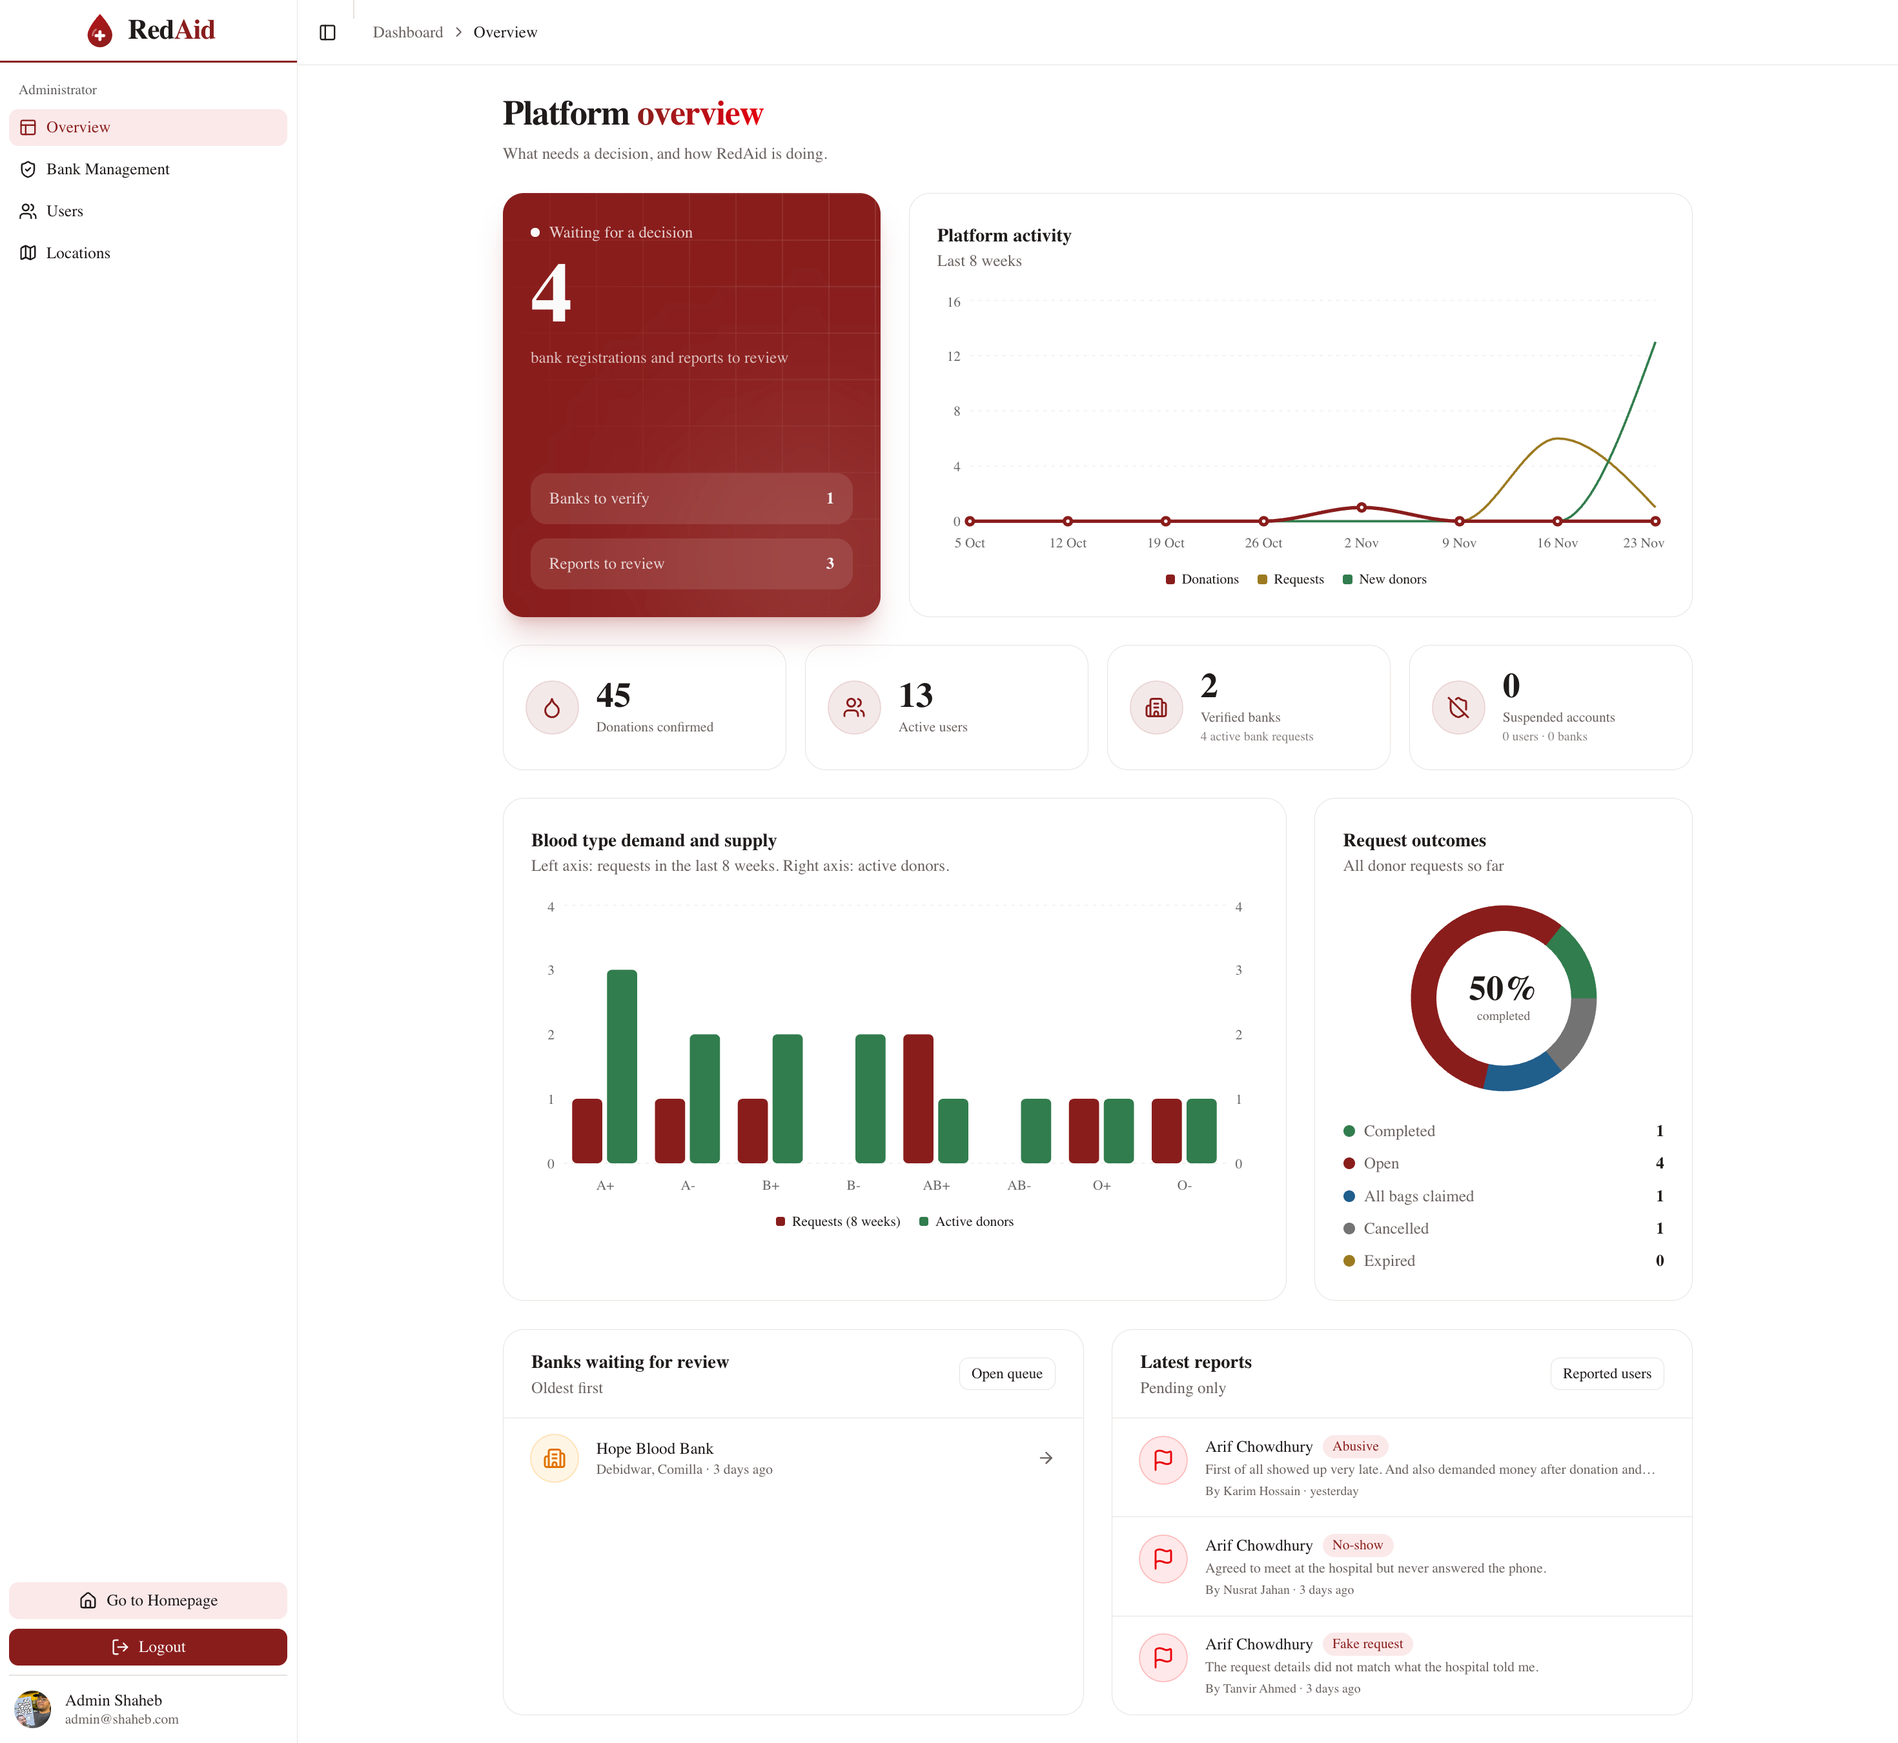
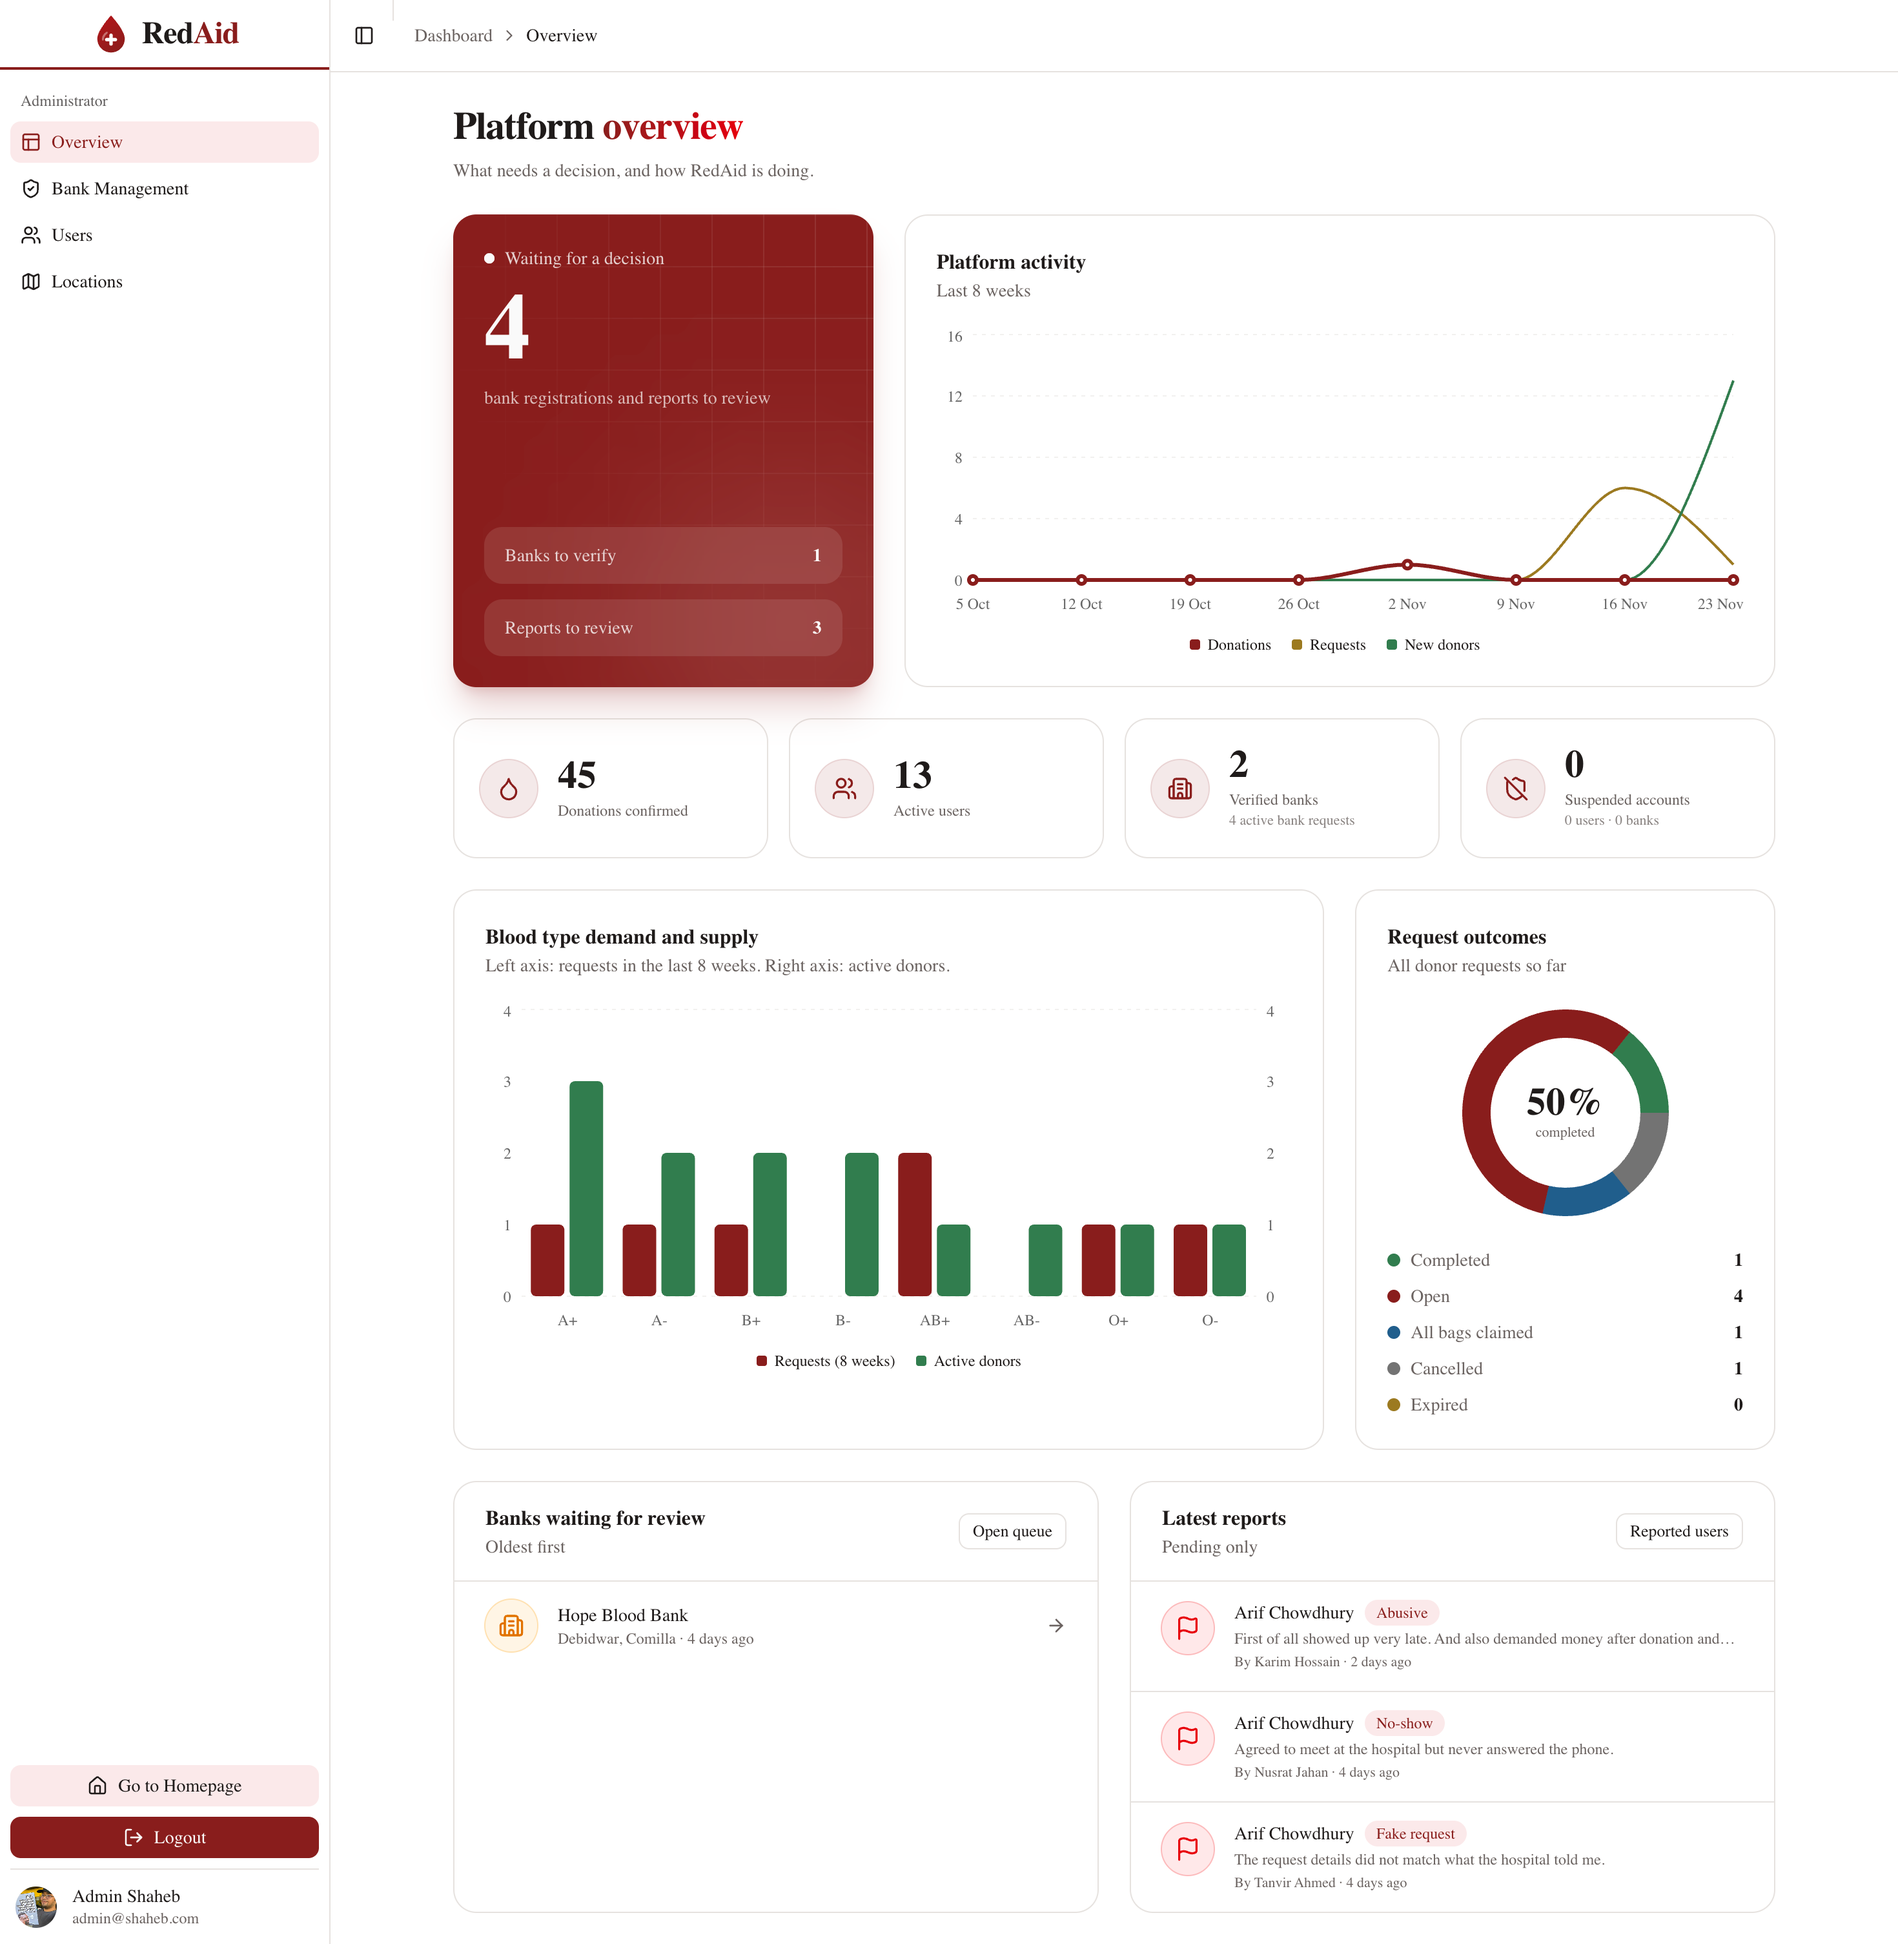
updated readme file

diff --git a/readme.md b/readme.md
@@ -228,8 +228,9 @@ erDiagram
     │   ├── service/            # API calls returning { data, error }
     │   ├── action/             # server actions that expire cache tags
     │   ├── routes/             # dashboard route map (single source of truth)
-    │   └── lib/
-    └── proxy.ts                # session and role guard for /dashboard
+    │   ├── lib/
+    │   └── proxy.ts            # session and role guard for /dashboard
+    └── .env            
 ```
 
 ## API overview
@@ -327,8 +328,6 @@ NEXT_PUBLIC_IMG_UPLOAD_URL=https://api.imgbb.com/1/upload
 
 ```bash
 cd backend
-pnpm seed:admin          # admin
-pnpm seed:locations      # divisions, districts, upazila and unions
 pnpm seed:demo           # sample donors, banks, requests, reports
 pnpm seed:demo:reset     # remove and rebuild the sample data
 ```
@@ -360,13 +359,17 @@ The repo is deployed as two Vercel projects, one per folder (set **Root Director
 
 ## Screenshots
 
-| Home | My Donations |
+| Home |
+|---|
+| ![Home](docs/images/home.png) |
+
+| All requests | My Donations |
 |---|---|
-| ![](docs/images/home.png) | ![](docs/images/my-donations.png) |
+| ![All requests](docs/images/all-requests.png) | ![My Donations](docs/images/my-donations.png) |
 
 | Bank overview | Admin overview |
 |---|---|
-| ![](docs/images/bank-overview.png) | ![](docs/images/admin-overview.png) |
+| ![Bank overview](docs/images/bank-overview.png) | ![Admin overview](docs/images/admin-overview.png) |
 
 ## Author
 
